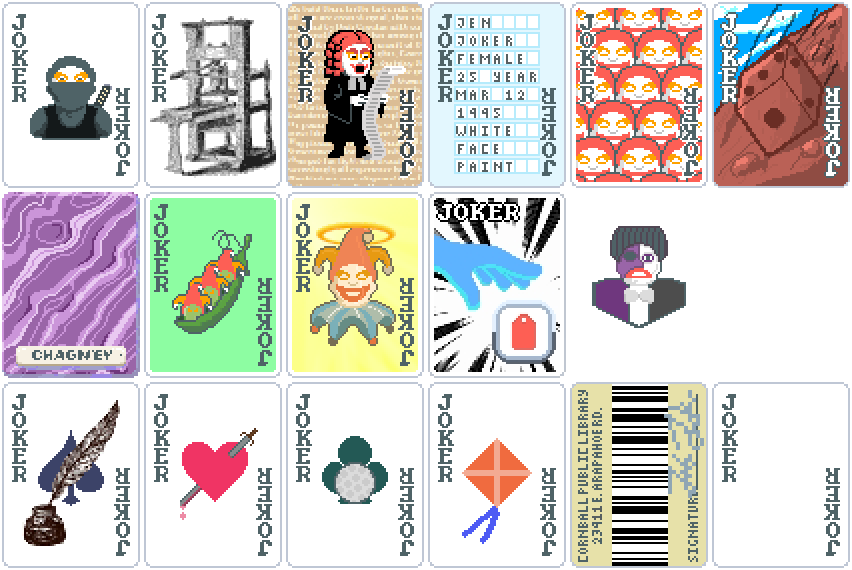
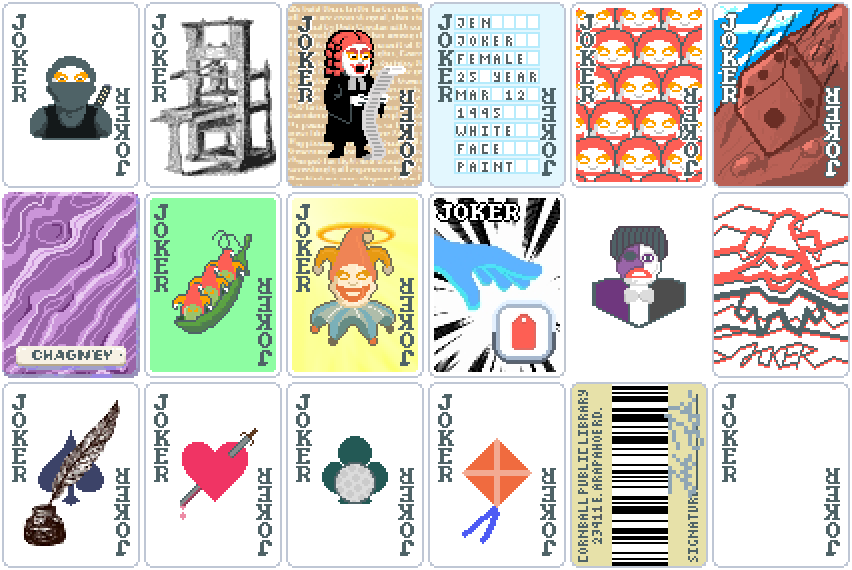
Added Trailblazer Joker

Changed region(s): [[0.8239, 0.3281, 1.0, 0.686]]

diff --git a/CREDITS.md b/CREDITS.md
@@ -2,22 +2,24 @@ Programming:
  - OmnipotentEntity: All so far
 
 Ideas:
- - /u/yellow-hammer: Filibuster
+ - crittykatie: Census, Boss Tag Rework, You're It
  - DapperGentleman: Reconstruction (Challenge)
  - Dimoniosus: Rolling Stone
+ - dudebro80085: Inkwell, Bloodshed, Fore, Kite
+ - glowing0v3rlord: Trailblazer
  - gollap: Pre-Order Sticker
+ - liz\_leziari: Hivemind, Library Card
  - Mathman2028: Template
+ - memorialized_: Ascension
  - OmnipotentEntity: Ninja, Chimera (Spectral), Three Peas in a Pod,
    Reconstruction (Challenge)
- - crittykatie: Census, Boss Tag Rework, You're It
- - dudebro80085: Inkwell, Bloodshed, Fore, Kite
- - liz\_leziari: Hivemind, Library Card
- - memorialized_: Ascension
  - unknownusergd: Student Loan Debt (Challenge)
+ - /u/yellow-hammer: Filibuster
 
 Art:
- - /u/yellow-hammer: Filibuster
  - Dimoniosus: Rolling Stone
+ - glowing0v3rlord: Trailblazer
  - OmnipotentEntity: Ninja, Template, Chimera, Census, Hivemind, Three Peas in a
    Pod, Ascension, Inkwell, Bloodshed, Fore, Kite, Library Card
+ - /u/yellow-hammer: Filibuster
  - zebragoboom: You're It
